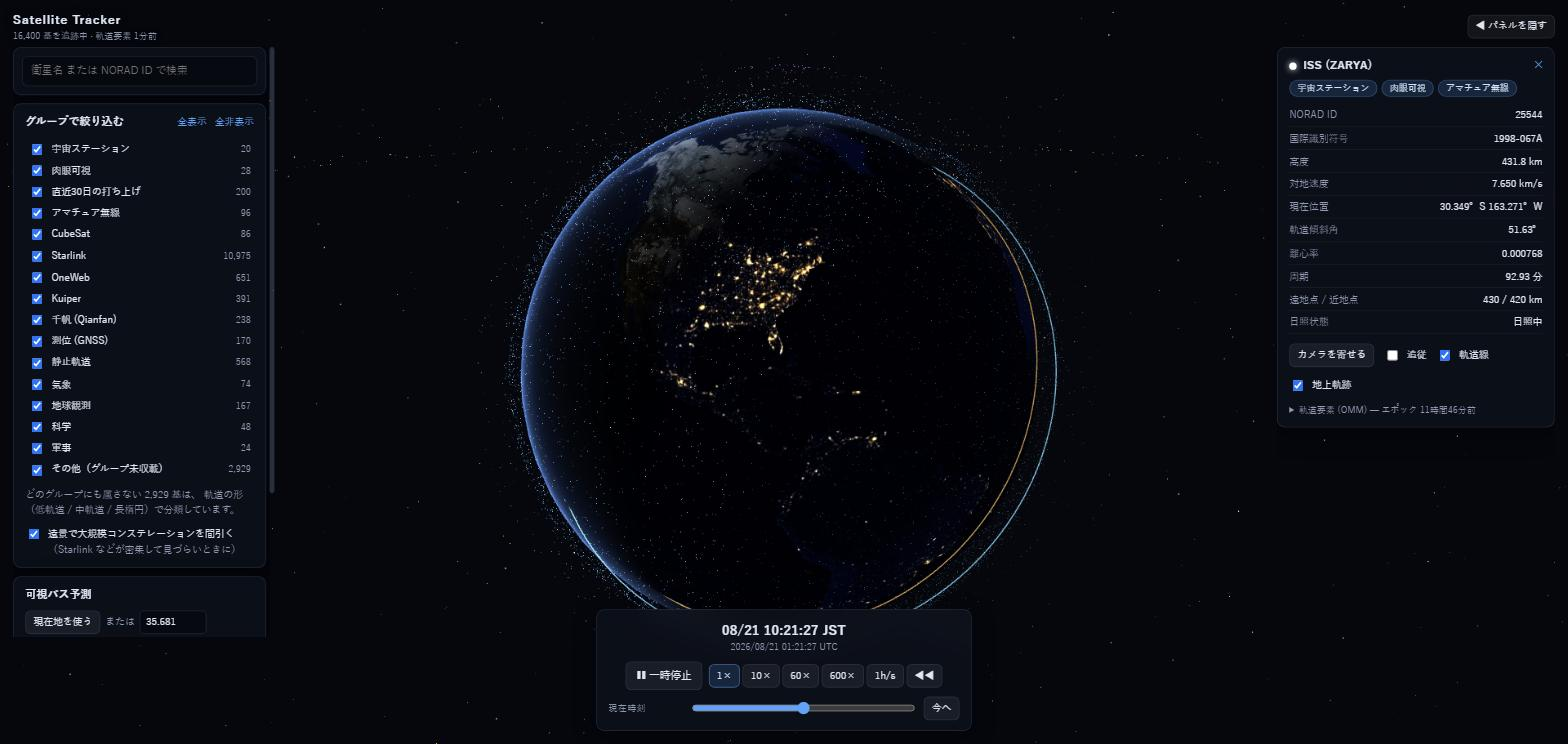
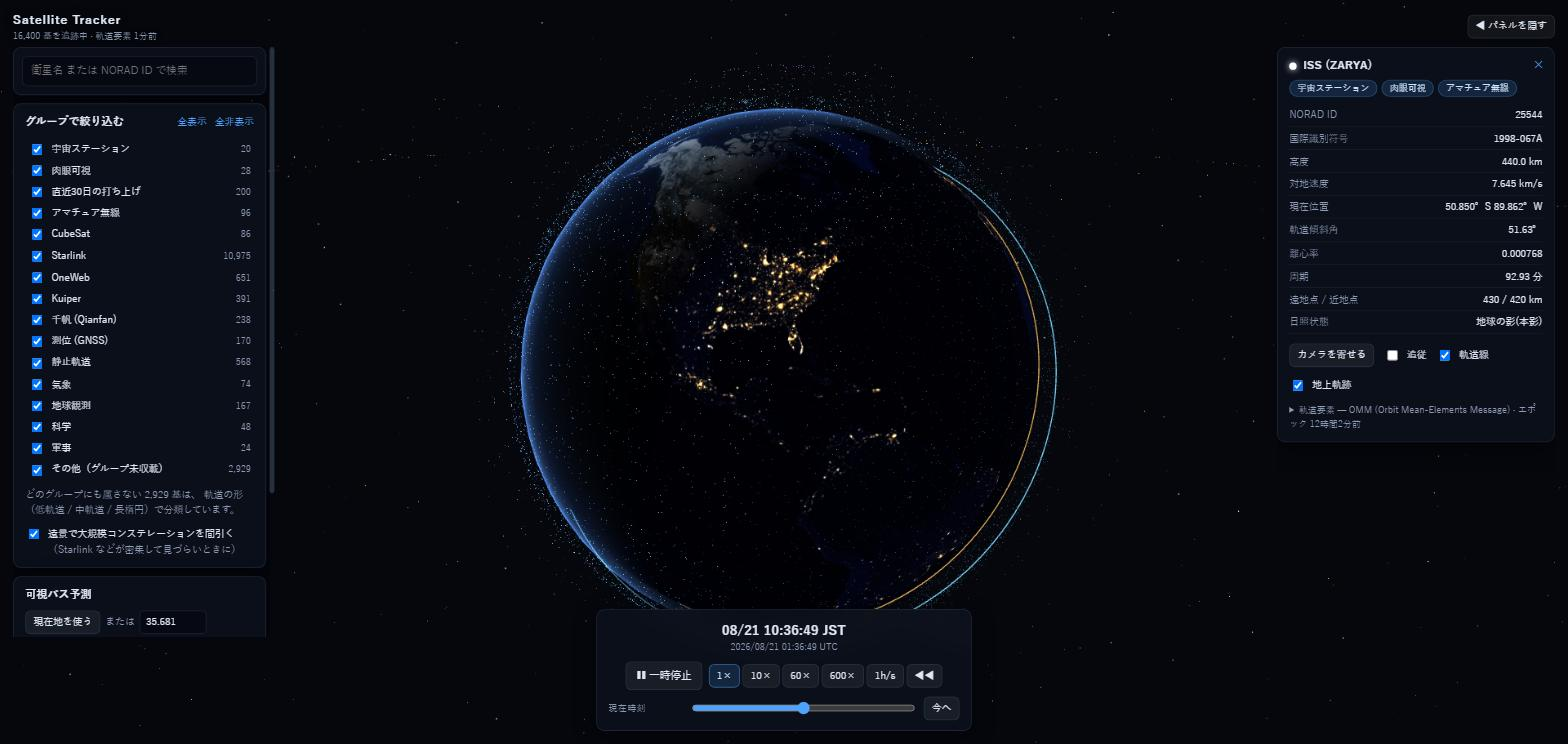
データ形式を OMM (Orbit Mean-Elements Message) の JSON 表現へ
CSV も OMM の一表現だが、CCSDS 502.0-B-3 が定める標準的な
シリアライズは JSON/XML/KVN の側。自己記述的で、CelesTrak が
項目を増減しても壊れない。

生サイズだけ見ると JSON は CSV の 3 倍で、前回はそれを理由に
CSV を選んだ。これは早計だった。CelesTrak が gzip を返すことを
確認(46,632B -> 8,335B)したうえで圧縮後で比べ直すと差はほぼ消える:

  FORMAT=csv   2.36MB -> gzip 0.83MB -> 日次  9.96MB
  FORMAT=json  7.04MB -> gzip 1.01MB -> 日次 12.09MB

100MB/日 制限に対してどちらも余裕なので、堅い方を採る。

変更点:
- Worker: FORMAT=json、content-type も application/json
- 伝播 Worker: CSV 行分割 + 列対応から、OMM レコードを
  そのまま json2satrec へ(パーサが大幅に短くなった)
- グループ集計: FORMAT=json
- 詳細パネル: 見出しを「OMM (Orbit Mean-Elements Message)」に

実データ 16,400 件すべての伝播成功を確認(失敗 0)。
本番では Cloudflare が zstd で 1.13MB に圧縮して配信している。

diff --git a/src/workers/propagator.worker.ts b/src/workers/propagator.worker.ts
@@ -55,8 +55,8 @@ interface Catalog {
   count: number;
   satrecs: SatRec[];
   names: string[];
-  /** CSV 1 行分の生の OMM。詳細パネルでそのまま見せる。 */
-  records: Array<Record<string, string>>;
+  /** 生の OMM レコード。詳細パネルでそのまま見せる。 */
+  records: OMMJsonObject[];
   ids: Int32Array;
   masks: Int32Array;
   categories: Uint8Array;
@@ -101,23 +101,21 @@ interface ParseResult {
 }
 
 /**
- * CelesTrak の GP データ(CSV)を読む。
+ * CelesTrak の OMM (Orbit Mean-Elements Message) を読む。
  *
- * TLE 形式ではなく CSV なのは、TLE のカタログ番号欄が 5 桁しかなく、
+ * TLE 形式ではないのは、TLE のカタログ番号欄が 5 桁しかなく、
  * 10 万番以上の物体を CelesTrak が出力してくれないため。実測では active の
  * 327 基がこれに該当し、直近の打ち上げがまるごと欠落していた。
  *
- * CSV の各行はそのまま OMM オブジェクトとして json2satrec に渡せる
- * (数値欄が文字列でも受け付けてくれる)。
+ * OMM は CCSDS 502.0-B-3 で定義された軌道要素の交換形式で、
+ * 各レコードがそのまま json2satrec に渡せる(数値欄が文字列でも受け付けてくれる)。
  */
-function parseGpCsv(text: string, groups: GroupIndex): ParseResult {
-  const lines = text.split('\n');
-  const header = (lines[0] ?? '').replace(/\r$/, '').split(',');
-  const columnCount = header.length;
+function parseOmm(records: unknown, groups: GroupIndex): ParseResult {
+  const rows = Array.isArray(records) ? (records as OMMJsonObject[]) : [];
 
   const satrecs: SatRec[] = [];
   const names: string[] = [];
-  const records: Array<Record<string, string>> = [];
+  const kept: OMMJsonObject[] = [];
   const intlDes: string[] = [];
   const idList: number[] = [];
   const maskList: number[] = [];
@@ -130,22 +128,11 @@ function parseGpCsv(text: string, groups: GroupIndex): ParseResult {
   let skipped = 0;
   let ungrouped = 0;
 
-  for (let i = 1; i < lines.length; i += 1) {
-    const line = lines[i]!.replace(/\r$/, '');
-    if (line.length === 0) continue;
+  const num = (value: unknown): number =>
+    typeof value === 'number' ? value : Number.parseFloat(String(value ?? ''));
 
-    const cells = line.split(',');
-    // CelesTrak の GP CSV は引用符を使わないので単純分割で足りる。
-    // 列数が合わない行は壊れているとみなして捨てる。
-    if (cells.length !== columnCount) {
-      skipped += 1;
-      continue;
-    }
-
-    const omm: Record<string, string> = {};
-    for (let c = 0; c < columnCount; c += 1) omm[header[c]!] = cells[c]!;
-
-    const id = Number.parseInt(omm.NORAD_CAT_ID ?? '', 10);
+  for (const omm of rows) {
+    const id = Number.parseInt(String(omm?.NORAD_CAT_ID ?? ''), 10);
     if (!Number.isFinite(id) || id <= 0) {
       skipped += 1;
       continue;
@@ -153,25 +140,26 @@ function parseGpCsv(text: string, groups: GroupIndex): ParseResult {
 
     let satrec: SatRec;
     try {
-      satrec = json2satrec(omm as unknown as OMMJsonObject);
+      satrec = json2satrec(omm);
     } catch {
       skipped += 1;
       continue;
     }
 
-    const meanMotion = Number.parseFloat(omm.MEAN_MOTION ?? '');
-    const ecc = Number.parseFloat(omm.ECCENTRICITY ?? '');
-    const inc = Number.parseFloat(omm.INCLINATION ?? '');
+    const meanMotion = num(omm.MEAN_MOTION);
+    const ecc = num(omm.ECCENTRICITY);
+    const inc = num(omm.INCLINATION);
     const mask = groups.maskFor(id);
     if (groups.isUngrouped(mask)) ungrouped += 1;
 
     satrecs.push(satrec);
-    names.push(omm.OBJECT_NAME?.trim() || `NORAD ${id}`);
-    records.push(omm);
-    intlDes.push(omm.OBJECT_ID?.trim() ?? '');
+    names.push(String(omm.OBJECT_NAME ?? '').trim() || `NORAD ${id}`);
+    kept.push(omm);
+    intlDes.push(String(omm.OBJECT_ID ?? '').trim());
     idList.push(id);
     maskList.push(mask);
     categoryList.push(groups.categoryFor(mask, meanMotion, ecc));
+    // CelesTrak の EPOCH はタイムゾーン指定の無い UTC 表記
     epochList.push(Date.parse(`${omm.EPOCH}Z`));
     meanMotionList.push(meanMotion);
     eccList.push(ecc);
@@ -185,7 +173,7 @@ function parseGpCsv(text: string, groups: GroupIndex): ParseResult {
       count: satrecs.length,
       satrecs,
       names,
-      records,
+      records: kept,
       intlDes,
       ids: Int32Array.from(idList),
       masks: Int32Array.from(maskList),
@@ -629,9 +617,9 @@ function isSatelliteSunlit(satrec: SatRec, ms: number): boolean {
 
 const ctx = self as unknown as DedicatedWorkerGlobalScope;
 
-async function handleInit(csv: string, groupsPayload: GroupsPayload | null) {
+async function handleInit(omm: unknown, groupsPayload: GroupsPayload | null) {
   const groups = new GroupIndex(groupsPayload);
-  const parsed = parseGpCsv(csv, groups);
+  const parsed = parseOmm(omm, groups);
 
   if (parsed.catalog.count === 0) {
     ctx.postMessage({
@@ -677,7 +665,7 @@ ctx.onmessage = (event: MessageEvent<WorkerRequest>) => {
   try {
     switch (msg.type) {
       case 'init':
-        void handleInit(msg.csv, msg.groups);
+        void handleInit(msg.omm, msg.groups);
         break;
 
       case 'tick': {

diff --git a/worker/index.ts b/worker/index.ts
@@ -18,16 +18,19 @@ export interface Env {
 }
 
 /**
- * 形式に CSV を使う理由:
+ * 形式に OMM (Orbit Mean-Elements Message, CCSDS 502.0-B-3) の JSON 表現を使う。
  *
  * TLE 系形式(3LE/2LE)はカタログ番号が 5 桁しか入らないため、10 万番以上の物体を
  * CelesTrak が出力してくれない(404 "No GP data found" が返る)。実測では active の
  * うち 327 基がこれに該当し、直近の打ち上げがまるごと欠落していた。
  *
- * CSV なら全件揃ううえ、3LE より小さい(2.48MB 対 2.70MB)。
+ * 生のサイズは CSV の 3 倍(7.04MB 対 2.36MB)だが、CelesTrak も Cloudflare も
+ * gzip を返すため実際の転送量はほぼ変わらない(1.01MB 対 0.83MB)。
+ * 項目名が各レコードに入っている自己記述的な形式なので、CelesTrak が列を
+ * 増減しても壊れないぶん CSV より堅い。
  */
 const CELESTRAK_GP_URL =
-  'https://celestrak.org/NORAD/elements/gp.php?GROUP=active&FORMAT=csv';
+  'https://celestrak.org/NORAD/elements/gp.php?GROUP=active&FORMAT=json';
 
 /** CelesTrak は自動クライアントに素性を名乗ることを求めている */
 const USER_AGENT =
@@ -69,11 +72,11 @@ const json = (body: unknown, init?: ResponseInit) =>
  */
 function fetchCelestrakGp(): Promise<Response> {
   return fetch(CELESTRAK_GP_URL, {
-    headers: { 'user-agent': USER_AGENT, accept: 'text/csv' },
+    headers: { 'user-agent': USER_AGENT, accept: 'application/json' },
   });
 }
 
-/** ArrayBuffer 経由で KV に保存する。text() を使うと 2.5MB の UTF-8 デコードで CPU 制限に触れる。 */
+/** ArrayBuffer 経由で KV に保存する。text() や json() を使うと CPU 制限に触れる。 */
 async function storeGp(env: Env, buf: ArrayBuffer): Promise<GpMetadata> {
   const metadata: GpMetadata = {
     fetchedAt: new Date().toISOString(),
@@ -91,7 +94,7 @@ async function handleGp(env: Env, ctx: ExecutionContext): Promise<Response> {
   if (cached.value) {
     return new Response(cached.value, {
       headers: {
-        'content-type': 'text/csv; charset=utf-8',
+        'content-type': 'application/json; charset=utf-8',
         // ブラウザ 30 分 / CDN 2 時間。CelesTrak の更新サイクルに合わせている
         'cache-control':
           'public, max-age=1800, s-maxage=7200, stale-while-revalidate=86400',
@@ -120,7 +123,7 @@ async function handleGp(env: Env, ctx: ExecutionContext): Promise<Response> {
 
   return new Response(buf, {
     headers: {
-      'content-type': 'text/csv; charset=utf-8',
+      'content-type': 'application/json; charset=utf-8',
       'cache-control': 'public, max-age=1800, s-maxage=7200',
       'x-fetched-at': new Date().toISOString(),
       'x-source': 'origin',
@@ -154,7 +157,7 @@ async function handleGroups(env: Env): Promise<Response> {
 
 /**
  * KV の list() は値を読まずに metadata を返してくれるので、
- * 2.5MB の GP データや 120KB の groups.json を一切ロードせずに更新時刻を知ることができる。
+ * 7MB の OMM データや 120KB の groups.json を一切ロードせずに更新時刻を知ることができる。
  */
 async function handleMeta(env: Env): Promise<Response> {
   const listed = await env.SATCACHE.list<GpMetadata | GroupsMetadata>();

diff --git a/src/ui/DetailPanel.tsx b/src/ui/DetailPanel.tsx
@@ -48,7 +48,7 @@ export function DetailPanel(props: Props) {
     ? `rgb(${style.color.map((c) => Math.round(c * 255)).join(',')})`
     : '#8ab4f8';
 
-  // TLE のエポックから離れるほど誤差が増える。1 週間を目安に注意を出す。
+  // 軌道要素のエポックから離れるほど誤差が増える。1 週間を目安に注意を出す。
   const epochAgeDays = (Date.now() - detail.epochMs) / 86400000;
   const epochStale = Number.isFinite(epochAgeDays) && Math.abs(epochAgeDays) > 7;
 
@@ -139,7 +139,8 @@ export function DetailPanel(props: Props) {
 
       <details className="tle-details">
         <summary>
-          軌道要素 (OMM) — エポック {formatRelative(detail.epochMs)}
+          軌道要素 — OMM (Orbit Mean-Elements Message) · エポック{' '}
+          {formatRelative(detail.epochMs)}
           {epochStale && <span className="warning-inline"> ⚠ 古い</span>}
         </summary>
         <div className="epoch-line">
@@ -151,7 +152,7 @@ export function DetailPanel(props: Props) {
           {Object.entries(detail.record).map(([key, value]) => (
             <div key={key} className="omm-row">
               <dt>{key}</dt>
-              <dd>{value}</dd>
+              <dd>{String(value)}</dd>
             </div>
           ))}
         </dl>

diff --git a/src/workers/protocol.ts b/src/workers/protocol.ts
@@ -19,8 +19,8 @@ export interface Observer {
 
 export interface InitMessage {
   type: 'init';
-  /** CelesTrak の GP データ(CSV)。1 行目がヘッダ。 */
-  csv: string;
+  /** CelesTrak の OMM (Orbit Mean-Elements Message) レコードの配列 */
+  omm: unknown;
   groups: GroupsPayload | null;
 }
 
@@ -94,7 +94,7 @@ export interface CatalogMessage {
   ungroupedCount: number;
   /** WASM 伝播が使えたか(使えなければ純 JS にフォールバックしている) */
   usingWasm: boolean;
-  /** 列数が合わない等でパースできなかった行の数 */
+  /** カタログ番号が読めない等でパースできなかったレコード数 */
   skipped: number;
 }
 
@@ -136,8 +136,8 @@ export interface SatelliteDetail {
   perigeeKm: number;
   /** 0 = 完全に日照、1 = 本影。0.x は半影。 */
   shadowFraction: number;
-  /** CSV 1 行分の生の軌道要素(OMM)。詳細パネルでそのまま見せる。 */
-  record: Record<string, string>;
+  /** 生の OMM レコード。詳細パネルでそのまま見せる。 */
+  record: Record<string, unknown>;
   error: number;
 }
 

diff --git a/src/data/api.ts b/src/data/api.ts
@@ -26,12 +26,14 @@ export class ApiError extends Error {
 }
 
 /**
- * GP データ(CSV)と、その取得時刻。
+ * OMM (Orbit Mean-Elements Message) レコードの配列と、その取得時刻。
  *
  * TLE 形式を使わないのは、カタログ番号欄が 5 桁しかなく 10 万番以上の物体が
  * 落ちてしまうため(実測で active の 327 基が該当)。
  */
-export async function fetchGp(signal?: AbortSignal): Promise<{ text: string; fetchedAt: string | null }> {
+export async function fetchGp(
+  signal?: AbortSignal,
+): Promise<{ records: unknown; fetchedAt: string | null }> {
   const res = await fetch('/api/gp', { signal });
   if (!res.ok) {
     let detail = `HTTP ${res.status}`;
@@ -43,7 +45,7 @@ export async function fetchGp(signal?: AbortSignal): Promise<{ text: string; fet
     }
     throw new ApiError(`軌道要素を取得できませんでした: ${detail}`, res.status);
   }
-  return { text: await res.text(), fetchedAt: res.headers.get('x-fetched-at') };
+  return { records: await res.json(), fetchedAt: res.headers.get('x-fetched-at') };
 }
 
 /**

diff --git a/src/app/useTracker.ts b/src/app/useTracker.ts
@@ -235,7 +235,7 @@ export function useTracker(): TrackerApi {
         setStatus({ phase: 'loading', message: 'CelesTrak の軌道要素を取得しています…' });
 
         let groups: GroupsPayload | null = null;
-        let gp: { text: string; fetchedAt: string | null };
+        let gp: { records: unknown; fetchedAt: string | null };
         try {
           [groups, gp] = await Promise.all([
             fetchGroups(abort.signal),
@@ -266,7 +266,7 @@ export function useTracker(): TrackerApi {
             error: event.message,
           });
         };
-        worker.postMessage({ type: 'init', csv: gp.text, groups });
+        worker.postMessage({ type: 'init', omm: gp.records, groups });
       } catch (err) {
         if (abort.signal.aborted) return;
         setStatus({
